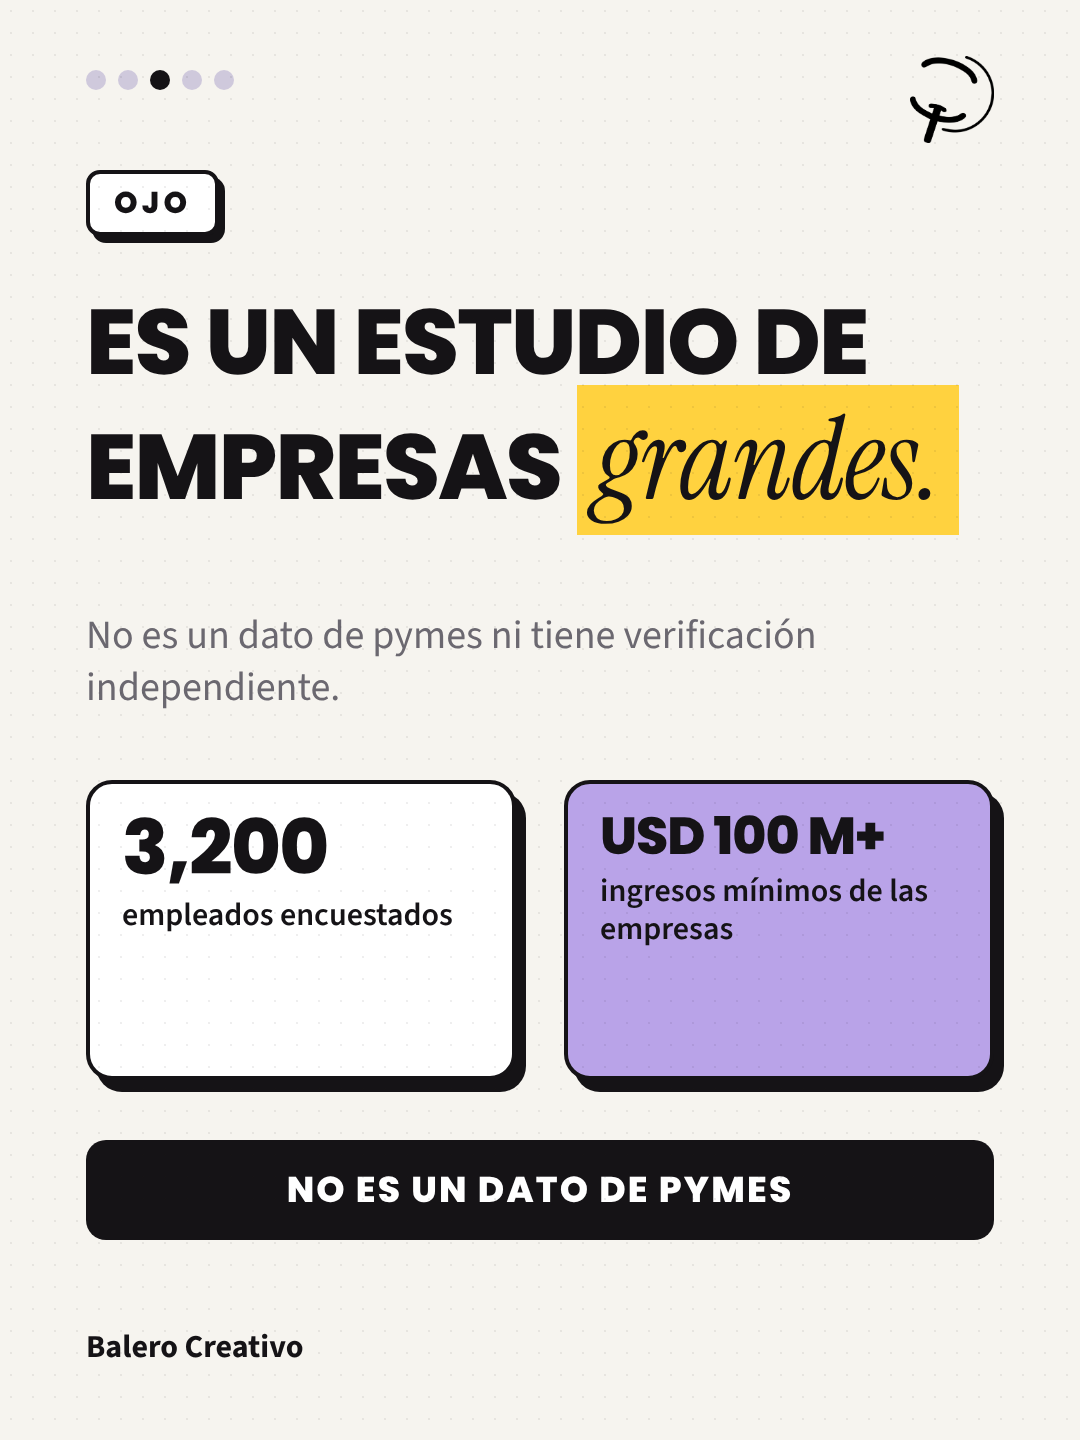
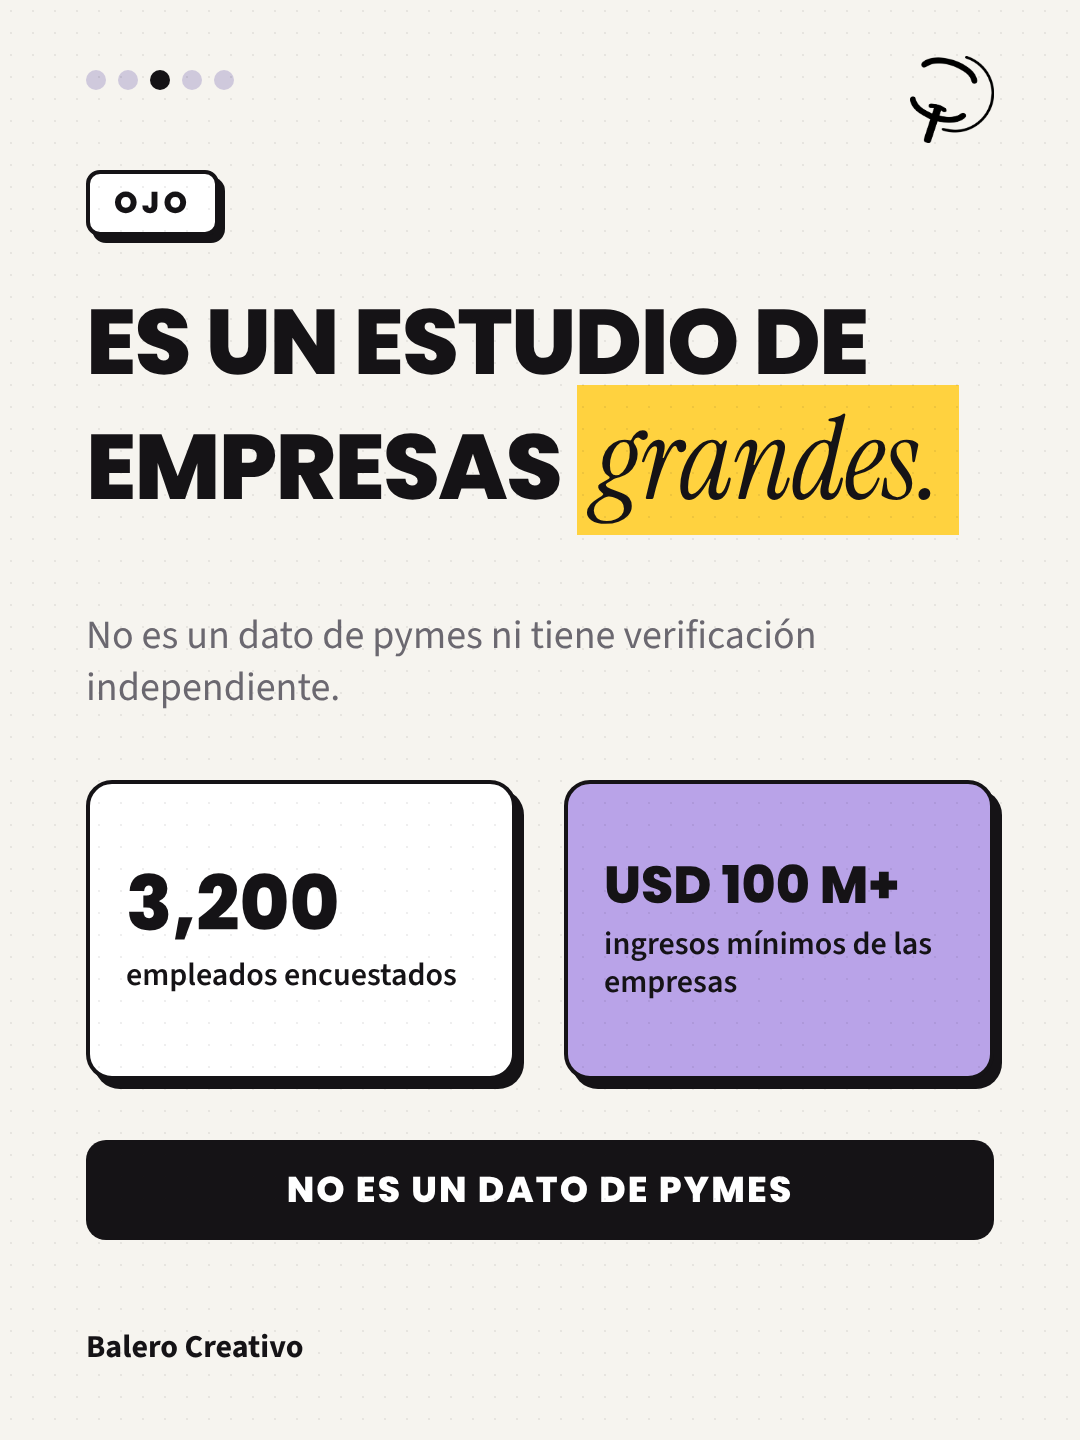
Workday: CTA de compartir y texto de tarjetas centrado verticalmente
Claude-Session: https://claude.ai/code/session_01Bq7ZC7FDz5LcdZBgNXTuBm

Changed region(s): [[0.55, 0.5625, 0.8556, 0.6875], [0.1222, 0.5625, 0.4278, 0.6875]]

diff --git a/clientes/balero/diseno/2026-11/estilo-editorial/semana/workday.html b/clientes/balero/diseno/2026-11/estilo-editorial/semana/workday.html
@@ -60,4 +60,4 @@ body{background:#888}
 .meter{position:absolute;left:86px;right:86px;background:#fff;border:4px solid #151316;border-radius:26px;box-shadow:10px 12px 0 #151316;overflow:hidden}
 
 .bigy{position:absolute;left:86px;font:800 330px/.9 Poppins;background:#FFD23F;padding:10px 30px 24px;letter-spacing:-.04em}
-</style></head><body><div class="s" id="s1"><div class="dots"><i style="background:#151316"></i><i style="background:#cfc9dc"></i><i style="background:#cfc9dc"></i><i style="background:#cfc9dc"></i><i style="background:#cfc9dc"></i></div><img class="logo" src="/home/user/balero/.claude/skills/balero-imagenes/assets/logo-balero.png"><div class="kick" style="top:170px">Estudio de Workday · ene 2026</div><div class="serif" style="position:absolute;left:86px;top:250px;font-size:100px;line-height:1">Casi</div><div class="bigy" style="top:340px">40%</div><div class="big" style="top:730px;font-size:52px;line-height:1.15">DEL TIEMPO QUE TE AHORRA LA IA</div><div class="serif" style="position:absolute;left:86px;top:860px;font-size:84px;line-height:1"><span class="hl">se va en corregirla.</span></div><div style="position:absolute;left:86px;top:1020px;width:80px;height:150px;background:#FFD23F;border:4px solid #151316;border-radius:16px;box-shadow:6px 7px 0 #151316"></div><div style="position:absolute;left:178px;top:1020px;width:80px;height:150px;background:#FFD23F;border:4px solid #151316;border-radius:16px;box-shadow:6px 7px 0 #151316"></div><div style="position:absolute;left:270px;top:1020px;width:80px;height:150px;background:#FFD23F;border:4px solid #151316;border-radius:16px;box-shadow:6px 7px 0 #151316"></div><div style="position:absolute;left:362px;top:1020px;width:80px;height:150px;background:#FFD23F;border:4px solid #151316;border-radius:16px;box-shadow:6px 7px 0 #151316"></div><div style="position:absolute;left:454px;top:1020px;width:80px;height:150px;background:#fff;border:4px solid #151316;border-radius:16px;box-shadow:6px 7px 0 #151316"></div><div style="position:absolute;left:546px;top:1020px;width:80px;height:150px;background:#fff;border:4px solid #151316;border-radius:16px;box-shadow:6px 7px 0 #151316"></div><div style="position:absolute;left:638px;top:1020px;width:80px;height:150px;background:#fff;border:4px solid #151316;border-radius:16px;box-shadow:6px 7px 0 #151316"></div><div style="position:absolute;left:730px;top:1020px;width:80px;height:150px;background:#fff;border:4px solid #151316;border-radius:16px;box-shadow:6px 7px 0 #151316"></div><div style="position:absolute;left:822px;top:1020px;width:80px;height:150px;background:#fff;border:4px solid #151316;border-radius:16px;box-shadow:6px 7px 0 #151316"></div><div style="position:absolute;left:914px;top:1020px;width:80px;height:150px;background:#fff;border:4px solid #151316;border-radius:16px;box-shadow:6px 7px 0 #151316"></div><div class="lbl" style="left:86px;top:1204px;font-size:26px;color:#3d3a42">4 DE CADA 10 HORAS AHORRADAS SE VAN EN CORREGIR</div><div class="foot"><span>Balero Creativo</span></div><div style="position:absolute;right:86px;bottom:70px;font:800 30px Poppins;letter-spacing:.14em">DESLIZA →</div></div><div class="s" id="s2"><div class="dots"><i style="background:#cfc9dc"></i><i style="background:#151316"></i><i style="background:#cfc9dc"></i><i style="background:#cfc9dc"></i><i style="background:#cfc9dc"></i></div><img class="logo" src="/home/user/balero/.claude/skills/balero-imagenes/assets/logo-balero.png"><div class="chip">EL COSTO OCULTO</div><div class="t" style="top:290px;font-size:100px">Se va en<br>tres <span class="serif" style="font-size:1.25em;text-transform:none;font-weight:400;background:#FFD23F;padding:0 18px">tareas.</span></div><div class="body" style="top:590px;width:880px">Corregir, reescribir y verificar lo que produce la IA.</div><div class="row2" style="top:800px;"><i>1</i>Corregir errores</div><div class="row2" style="top:940px;"><i>2</i>Reescribir el tono</div><div class="row2" style="top:1080px;"><i>3</i>Verificar cada dato</div><div class="foot"><span>Balero Creativo</span></div><div style="position:absolute;right:86px;bottom:70px;font:700 30px 'Source Sans Pro';color:#3d3a42;text-align:right;max-width:640px">Encuesta de Workday, ene 2026</div></div><div class="s" id="s3"><div class="dots"><i style="background:#cfc9dc"></i><i style="background:#cfc9dc"></i><i style="background:#151316"></i><i style="background:#cfc9dc"></i><i style="background:#cfc9dc"></i></div><img class="logo" src="/home/user/balero/.claude/skills/balero-imagenes/assets/logo-balero.png"><div class="chip">OJO</div><div class="t" style="top:290px;font-size:92px">Es un estudio de<br>empresas <span class="serif" style="font-size:1.25em;text-transform:none;font-weight:400;background:#FFD23F;padding:0 18px">grandes.</span></div><div class="body" style="top:610px;width:880px">No es un dato de pymes ni tiene verificación independiente.</div><div class="stat" style="left:86px;top:780px;width:430px;height:300px;background:#fff"><b style="font-size:76px">3,200</b><span>empleados encuestados</span></div><div class="stat" style="left:564px;top:780px;width:430px;height:300px;background:#B9A3E8"><b style="font-size:52px">USD 100 M+</b><span>ingresos mínimos de las empresas</span></div><div style="position:absolute;left:86px;top:1140px;width:908px;height:100px;background:#151316;color:#fff;font:800 36px/100px Poppins;text-align:center;letter-spacing:.06em;border-radius:20px">NO ES UN DATO DE PYMES</div><div class="foot"><span>Balero Creativo</span></div></div><div class="s" id="s4"><div class="dots"><i style="background:#cfc9dc"></i><i style="background:#cfc9dc"></i><i style="background:#cfc9dc"></i><i style="background:#151316"></i><i style="background:#cfc9dc"></i></div><img class="logo" src="/home/user/balero/.claude/skills/balero-imagenes/assets/logo-balero.png"><div class="chip">LA LECCIÓN</div><div class="t" style="top:290px;font-size:96px">Si alguien revisa,<br>la IA <span class="serif" style="font-size:1.25em;text-transform:none;font-weight:400;background:#FFD23F;padding:0 18px">ahorra.</span></div><div class="body" style="top:610px;width:880px">Mide cuánto tiempo te toma corregir lo que genera la IA.</div><div style="position:absolute;left:86px;top:780px;width:908px;height:140px;display:flex;align-items:center;gap:34px;padding:0 44px;background:#fff;border:4px solid #151316;border-radius:26px;box-shadow:8px 9px 0 #151316;"><b style="font:800 64px Poppins;min-width:50px">1</b><span style="font:800 44px Poppins">La IA genera</span></div><div class="sc" style="left:520px;top:922px;font-size:40px">↓</div><div style="position:absolute;left:86px;top:970px;width:908px;height:140px;display:flex;align-items:center;gap:34px;padding:0 44px;background:#fff;border:4px solid #151316;border-radius:26px;box-shadow:8px 9px 0 #151316;background:#B9A3E8;"><b style="font:800 64px Poppins;min-width:50px">2</b><span style="font:800 44px Poppins">Alguien revisa</span></div><div class="sc" style="left:520px;top:1112px;font-size:40px">↓</div><div style="position:absolute;left:86px;top:1160px;width:908px;height:140px;display:flex;align-items:center;gap:34px;padding:0 44px;background:#fff;border:4px solid #151316;border-radius:26px;box-shadow:8px 9px 0 #151316;"><b style="font:800 64px Poppins;min-width:50px">3</b><span style="font:800 44px Poppins">Se publica</span></div><div class="foot"><span>Balero Creativo</span></div></div><div class="s" id="s5"><div class="dots"><i style="background:#cfc9dc"></i><i style="background:#cfc9dc"></i><i style="background:#cfc9dc"></i><i style="background:#cfc9dc"></i><i style="background:#151316"></i></div><img class="logo" src="/home/user/balero/.claude/skills/balero-imagenes/assets/logo-balero.png"><div class="serif" style="position:absolute;left:86px;top:400px;font-size:120px;line-height:1">¿Y quién la</div><div class="t" style="top:560px;font-size:150px"><span class="hl">revisa?</span></div><div class="body" style="top:800px;width:880px">Te ayudamos a revisar cómo usas la IA en tu marketing.</div><div class="tape" style="top:960px;font-family:Poppins;font-weight:800;font-size:36px">Diagnóstico gratis de 15 minutos</div><div class="arrow" style="top:960px;transform:translateY(22px)">→</div><div class="foot"><span>Balero Creativo</span></div><div style="position:absolute;right:86px;bottom:70px;font:700 30px 'Source Sans Pro';color:#3d3a42;text-align:right;max-width:640px">Fuente: Workday, comunicado del 14 ene 2026</div></div></body></html>
+</style></head><body><div class="s" id="s1"><div class="dots"><i style="background:#151316"></i><i style="background:#cfc9dc"></i><i style="background:#cfc9dc"></i><i style="background:#cfc9dc"></i><i style="background:#cfc9dc"></i></div><img class="logo" src="/home/user/balero/.claude/skills/balero-imagenes/assets/logo-balero.png"><div class="kick" style="top:170px">Estudio de Workday · ene 2026</div><div class="serif" style="position:absolute;left:86px;top:250px;font-size:100px;line-height:1">Casi</div><div class="bigy" style="top:340px">40%</div><div class="big" style="top:730px;font-size:52px;line-height:1.15">DEL TIEMPO QUE TE AHORRA LA IA</div><div class="serif" style="position:absolute;left:86px;top:860px;font-size:84px;line-height:1"><span class="hl">se va en corregirla.</span></div><div style="position:absolute;left:86px;top:1020px;width:80px;height:150px;background:#FFD23F;border:4px solid #151316;border-radius:16px;box-shadow:6px 7px 0 #151316"></div><div style="position:absolute;left:178px;top:1020px;width:80px;height:150px;background:#FFD23F;border:4px solid #151316;border-radius:16px;box-shadow:6px 7px 0 #151316"></div><div style="position:absolute;left:270px;top:1020px;width:80px;height:150px;background:#FFD23F;border:4px solid #151316;border-radius:16px;box-shadow:6px 7px 0 #151316"></div><div style="position:absolute;left:362px;top:1020px;width:80px;height:150px;background:#FFD23F;border:4px solid #151316;border-radius:16px;box-shadow:6px 7px 0 #151316"></div><div style="position:absolute;left:454px;top:1020px;width:80px;height:150px;background:#fff;border:4px solid #151316;border-radius:16px;box-shadow:6px 7px 0 #151316"></div><div style="position:absolute;left:546px;top:1020px;width:80px;height:150px;background:#fff;border:4px solid #151316;border-radius:16px;box-shadow:6px 7px 0 #151316"></div><div style="position:absolute;left:638px;top:1020px;width:80px;height:150px;background:#fff;border:4px solid #151316;border-radius:16px;box-shadow:6px 7px 0 #151316"></div><div style="position:absolute;left:730px;top:1020px;width:80px;height:150px;background:#fff;border:4px solid #151316;border-radius:16px;box-shadow:6px 7px 0 #151316"></div><div style="position:absolute;left:822px;top:1020px;width:80px;height:150px;background:#fff;border:4px solid #151316;border-radius:16px;box-shadow:6px 7px 0 #151316"></div><div style="position:absolute;left:914px;top:1020px;width:80px;height:150px;background:#fff;border:4px solid #151316;border-radius:16px;box-shadow:6px 7px 0 #151316"></div><div class="lbl" style="left:86px;top:1204px;font-size:26px;color:#3d3a42">4 DE CADA 10 HORAS AHORRADAS SE VAN EN CORREGIR</div><div class="foot"><span>Balero Creativo</span></div><div style="position:absolute;right:86px;bottom:70px;font:800 30px Poppins;letter-spacing:.14em">DESLIZA →</div></div><div class="s" id="s2"><div class="dots"><i style="background:#cfc9dc"></i><i style="background:#151316"></i><i style="background:#cfc9dc"></i><i style="background:#cfc9dc"></i><i style="background:#cfc9dc"></i></div><img class="logo" src="/home/user/balero/.claude/skills/balero-imagenes/assets/logo-balero.png"><div class="chip">EL COSTO OCULTO</div><div class="t" style="top:290px;font-size:100px">Se va en<br>tres <span class="serif" style="font-size:1.25em;text-transform:none;font-weight:400;background:#FFD23F;padding:0 18px">tareas.</span></div><div class="body" style="top:590px;width:880px">Corregir, reescribir y verificar lo que produce la IA.</div><div class="row2" style="top:800px;"><i>1</i>Corregir errores</div><div class="row2" style="top:940px;"><i>2</i>Reescribir el tono</div><div class="row2" style="top:1080px;"><i>3</i>Verificar cada dato</div><div class="foot"><span>Balero Creativo</span></div><div style="position:absolute;right:86px;bottom:70px;font:700 30px 'Source Sans Pro';color:#3d3a42;text-align:right;max-width:640px">Encuesta de Workday, ene 2026</div></div><div class="s" id="s3"><div class="dots"><i style="background:#cfc9dc"></i><i style="background:#cfc9dc"></i><i style="background:#151316"></i><i style="background:#cfc9dc"></i><i style="background:#cfc9dc"></i></div><img class="logo" src="/home/user/balero/.claude/skills/balero-imagenes/assets/logo-balero.png"><div class="chip">OJO</div><div class="t" style="top:290px;font-size:92px">Es un estudio de<br>empresas <span class="serif" style="font-size:1.25em;text-transform:none;font-weight:400;background:#FFD23F;padding:0 18px">grandes.</span></div><div class="body" style="top:610px;width:880px">No es un dato de pymes ni tiene verificación independiente.</div><div style="position:absolute;left:86px;top:780px;width:430px;height:300px;background:#fff;border:4px solid #151316;border-radius:26px;box-shadow:8px 9px 0 #151316;display:flex;flex-direction:column;justify-content:center;padding:0 36px"><div style="font:800 76px/1 Poppins">3,200</div><div style="font:600 32px/1.2 'Source Sans Pro',sans-serif;margin-top:14px">empleados encuestados</div></div><div style="position:absolute;left:564px;top:780px;width:430px;height:300px;background:#B9A3E8;border:4px solid #151316;border-radius:26px;box-shadow:8px 9px 0 #151316;display:flex;flex-direction:column;justify-content:center;padding:0 36px"><div style="font:800 52px/1 Poppins">USD 100 M+</div><div style="font:600 32px/1.2 'Source Sans Pro',sans-serif;margin-top:14px">ingresos mínimos de las empresas</div></div><div style="position:absolute;left:86px;top:1140px;width:908px;height:100px;background:#151316;color:#fff;font:800 36px/100px Poppins;text-align:center;letter-spacing:.06em;border-radius:20px">NO ES UN DATO DE PYMES</div><div class="foot"><span>Balero Creativo</span></div></div><div class="s" id="s4"><div class="dots"><i style="background:#cfc9dc"></i><i style="background:#cfc9dc"></i><i style="background:#cfc9dc"></i><i style="background:#151316"></i><i style="background:#cfc9dc"></i></div><img class="logo" src="/home/user/balero/.claude/skills/balero-imagenes/assets/logo-balero.png"><div class="chip">LA LECCIÓN</div><div class="t" style="top:290px;font-size:96px">Si alguien revisa,<br>la IA <span class="serif" style="font-size:1.25em;text-transform:none;font-weight:400;background:#FFD23F;padding:0 18px">ahorra.</span></div><div class="body" style="top:610px;width:880px">Mide cuánto tiempo te toma corregir lo que genera la IA.</div><div style="position:absolute;left:86px;top:780px;width:908px;height:140px;display:flex;align-items:center;gap:34px;padding:0 44px;background:#fff;border:4px solid #151316;border-radius:26px;box-shadow:8px 9px 0 #151316;"><b style="font:800 64px Poppins;min-width:50px">1</b><span style="font:800 44px Poppins">La IA genera</span></div><div class="sc" style="left:520px;top:922px;font-size:40px">↓</div><div style="position:absolute;left:86px;top:970px;width:908px;height:140px;display:flex;align-items:center;gap:34px;padding:0 44px;background:#fff;border:4px solid #151316;border-radius:26px;box-shadow:8px 9px 0 #151316;background:#B9A3E8;"><b style="font:800 64px Poppins;min-width:50px">2</b><span style="font:800 44px Poppins">Alguien revisa</span></div><div class="sc" style="left:520px;top:1112px;font-size:40px">↓</div><div style="position:absolute;left:86px;top:1160px;width:908px;height:140px;display:flex;align-items:center;gap:34px;padding:0 44px;background:#fff;border:4px solid #151316;border-radius:26px;box-shadow:8px 9px 0 #151316;"><b style="font:800 64px Poppins;min-width:50px">3</b><span style="font:800 44px Poppins">Se publica</span></div><div class="foot"><span>Balero Creativo</span></div></div><div class="s" id="s5"><div class="dots"><i style="background:#cfc9dc"></i><i style="background:#cfc9dc"></i><i style="background:#cfc9dc"></i><i style="background:#cfc9dc"></i><i style="background:#151316"></i></div><img class="logo" src="/home/user/balero/.claude/skills/balero-imagenes/assets/logo-balero.png"><div class="serif" style="position:absolute;left:86px;top:400px;font-size:120px;line-height:1">¿Y quién la</div><div class="t" style="top:560px;font-size:150px"><span class="hl">revisa?</span></div><div class="body" style="top:800px;width:880px">Compártelo con quien redacta los títulos de tu marca.</div><div class="tape" style="top:960px;font-family:Poppins;font-weight:800;font-size:36px">Compartir este carrusel</div><div class="arrow" style="top:960px;transform:translateY(22px)">→</div><div class="foot"><span>Balero Creativo</span></div><div style="position:absolute;right:86px;bottom:70px;font:700 30px 'Source Sans Pro';color:#3d3a42;text-align:right;max-width:640px">Fuente: Workday, comunicado del 14 ene 2026</div></div></body></html>

diff --git a/clientes/balero/diseno/2026-11/estilo-editorial/semana/defs.py b/clientes/balero/diseno/2026-11/estilo-editorial/semana/defs.py
@@ -41,6 +41,8 @@ stan=[
  (serif('Guarda este',370,104)+big('CARRUSEL',490,100)+serif('<span class="hl">para tu próximo título.</span>',610,96)+tape('Toca el ícono de guardar',788)+body('Cuando redactes, afirma en lugar de preguntar.',1020), foot('Fuente: Stanford GSB')),
 ]
 # ---------- WORKDAY ----------
+def wcard(x,y,w,h,num,lab,bg='#fff',fs=76):
+    return f'<div style="position:absolute;left:{x}px;top:{y}px;width:{w}px;height:{h}px;background:{bg};border:4px solid #151316;border-radius:26px;box-shadow:8px 9px 0 #151316;display:flex;flex-direction:column;justify-content:center;padding:0 36px"><div style="font:800 {fs}px/1 Poppins">{num}</div><div style="font:600 32px/1.2 \'Source Sans Pro\',sans-serif;margin-top:14px">{lab}</div></div>'
 def wbar(top):
     out=''
     for i in range(10):
@@ -63,10 +65,10 @@ work=[
  (chip('EL COSTO OCULTO')+title('Se va en','tres '+hl('tareas.'))+body('Corregir, reescribir y verificar lo que produce la IA.',590)+
    row2(800,'1','Corregir errores')+row2(940,'2','Reescribir el tono')+row2(1080,'3','Verificar cada dato'), foot('Encuesta de Workday, ene 2026')),
  (chip('OJO')+title('Es un estudio de','empresas '+hl('grandes.'),92)+body('No es un dato de pymes ni tiene verificación independiente.')+
-   stat(86,780,430,300,'3,200','empleados encuestados')+stat(564,780,430,300,'USD 100 M+','ingresos mínimos de las empresas','#B9A3E8',fs=52)+
+   wcard(86,780,430,300,'3,200','empleados encuestados')+wcard(564,780,430,300,'USD 100 M+','ingresos mínimos de las empresas','#B9A3E8',fs=52)+
    '<div style="position:absolute;left:86px;top:1140px;width:908px;height:100px;background:#151316;color:#fff;font:800 36px/100px Poppins;text-align:center;letter-spacing:.06em;border-radius:20px">NO ES UN DATO DE PYMES</div>', F),
  (chip('LA LECCIÓN')+title('Si alguien revisa,','la IA '+hl('ahorra.'),96)+body('Mide cuánto tiempo te toma corregir lo que genera la IA.')+vflow(780), F),
- (serif('¿Y quién la',400,120)+'<div class="t" style="top:560px;font-size:150px"><span class="hl">revisa?</span></div>'+body('Te ayudamos a revisar cómo usas la IA en tu marketing.',800)+tape('Diagnóstico gratis de 15 minutos',960), foot('Fuente: Workday, comunicado del 14 ene 2026')),
+ (serif('¿Y quién la',400,120)+'<div class="t" style="top:560px;font-size:150px"><span class="hl">revisa?</span></div>'+body('Compártelo con quien redacta los títulos de tu marca.',800)+tape('Compartir este carrusel',960), foot('Fuente: Workday, comunicado del 14 ene 2026')),
 ]
 # ---------- TRIGGER ----------
 rays=''.join(f'<div style="position:absolute;left:{755+int(150*__import__("math").cos(a))-6}px;top:{855+int(150*__import__("math").sin(a))-28}px;width:12px;height:56px;background:#151316;border-radius:6px;transform:rotate({int(a*180/3.14159)+90}deg)"></div>' for a in [(-2.9+i*0.52) for i in range(0,9)])
